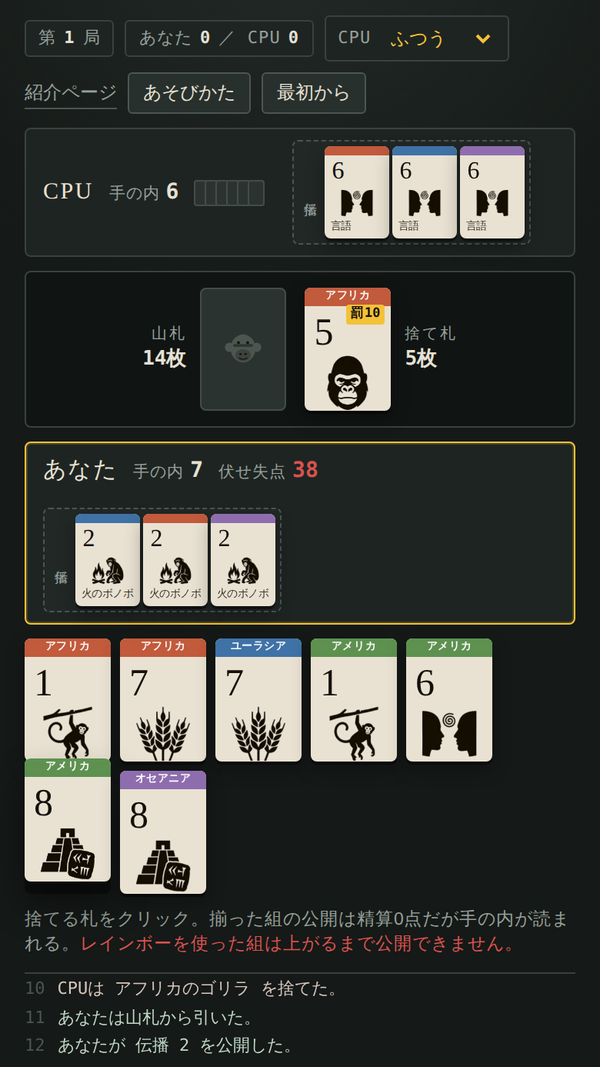
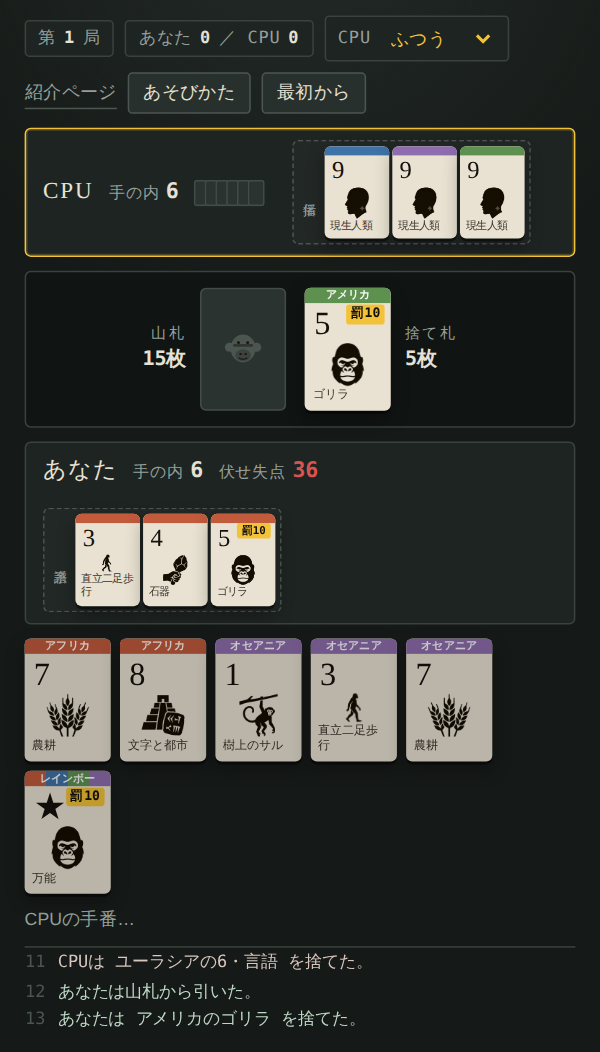
札の段名が切れる不具合を修正、万能の表記とツモの呼び名を変更
1) 段名が切れていた

絵の高さを 38px で固定していたため、狭い画面（札 56x80）では
帯12 + 数字30 + 絵38 = 80 となって段名の場所が残らず、
overflow:hidden で切り落とされていた。

絵を flex:1 1 auto / min-height:0 / max-height:38px にして
伸び縮みさせ、文字側の高さを必ず確保するようにした。
あわせて 560px 以下では帯と数字も少し詰めている。
390 / 320 / 1000px のいずれでも切れる札が0枚になることを確認。

2) レインボーゴリラの表記を「萬能」から「万能」へ

3) 「ツモ」をやめ、上がりの宣言はどちらも「ゴリラ！」に

麻雀の用語がこのゲームの世界に合わないため。
山札から引いたか捨て札を拾ったかは、ログの文で書き分ける。
ルール説明・RULES.md・README・紹介ページも合わせた。

ヒーローのスクリーンショットは段名が切れた状態で撮ったものだったので
撮り直した（600x1052）。tools/make_screen.mjs は撮影から切り出し・
縮小までを一度に行うようにして、外部の画像処理を要らなくした。

Claude-Session: https://claude.ai/code/session_01QAyU56SF3q2f55y4EJJ5n5

diff --git a/app/index.html b/app/index.html
@@ -97,8 +97,10 @@
     color:var(--ink); background:var(--banana); border-radius:2px; padding:0 3px}
   .card .apeart{position:absolute; right:4px; bottom:19px; opacity:.85}
   /* 絵札 — img/1.png … img/9.png を置くと自動で切り替わる */
-  .card .art{display:block; width:100%; height:38px; object-fit:contain; margin-top:1px;
-    mix-blend-mode:multiply; pointer-events:none}
+  /* 絵は伸び縮みさせる。高さを固定すると、狭い画面で段名の場所が残らず切れる。
+     min-height:0 で縮めるようにし、文字側は内容ぶんの高さを保つ。 */
+  .card .art{display:block; width:100%; flex:1 1 auto; min-height:0; max-height:38px;
+    object-fit:contain; margin-top:1px; mix-blend-mode:multiply; pointer-events:none}
   .card.arton .band{height:12px}
   /* 絵にすると大陸名の行が消えるので、色帯の中に入れて残す */
   .card.arton .cont{position:absolute; top:0; left:0; right:0; height:12px; line-height:12px;
@@ -107,7 +109,7 @@
   .card.sm.arton .cont{display:none}
   .card.arton .apeart{display:none}
   .card.arton .num{font-size:25px; padding-top:5px}
-  .card.sm .art{height:22px}
+  .card.sm .art{max-height:22px}
   .card.sm.arton .band{height:6px}
   .card.sm.arton .num{font-size:16px; padding-top:3px}
   .card.sm{width:42px;height:60px}
@@ -176,6 +178,8 @@
     .card .num{font-size:24px;padding:5px 0 0 6px}
     .card .stage{font-size:7.5px;padding:0 5px}
     .card .cont{font-size:7px;padding:0 6px}
+    .card.arton .band{height:10px}
+    .card.arton .num{font-size:21px; padding-top:3px}
     .deckback,.emptyslot{width:56px;height:80px}
     .tablerow{gap:12px}
     .recent{display:none}
@@ -504,7 +508,7 @@ function cardNode(card, opt){
 
   var st = document.createElement("div");
   st.className = "stage";
-  st.textContent = card.kind === "rainbow" ? "萬能" : STAGE[card.n];
+  st.textContent = card.kind === "rainbow" ? "万能" : STAGE[card.n];
   el.appendChild(st);
 
   if (isApe(card)){
@@ -640,8 +644,7 @@ function render(){
   } else {
     var w = winOption(G.you.hand, G.you.melds.length);
     if (w){
-      var lab = G.drawnFrom === "discard" ? "ゴリラ！" : "ツモ";
-      act.appendChild(mkBtn(lab, "win", function(){ declareWin("you", w); }));
+      act.appendChild(mkBtn("ゴリラ！", "win", function(){ declareWin("you", w); }));
     }
     var k = knockOption(G.you);
     if (k){
@@ -882,8 +885,9 @@ function declareWin(who, w){
   var gained = lp.dead + bonus;
   G.score[who] += gained;
 
-  var call = G.drawnFrom === "discard" ? "ゴリラ！" : "ツモ";
-  log(nameOf(who) + "が" + call + "で上がった。" + nameOf(loser) + "の伏せ札 " + lp.dead + "点" +
+  var call = "ゴリラ！";
+  var how = G.drawnFrom === "discard" ? "捨て札を拾って" : "山札から引いて";
+  log(nameOf(who) + "が" + how + call + " " + nameOf(loser) + "の伏せ札 " + lp.dead + "点" +
       (bonus ? "＋現生人類 " + bonus + "点" : "") + " を獲得。",
       who==="you" ? "hot" : "bad");
   render();
@@ -1058,7 +1062,7 @@ function showRules(){
     '<h3>手番</h3>' +
     '<p>山札か捨て札の一番上か、どちらかから1枚引いて、1枚捨てる。ポン・チーはありません。' +
     '<strong>捨て札を拾った手番は山札が減らない</strong>ので、拾うほど局が延びます。</p>' +
-    '<p>2人なので、自分の手番が来たときの捨て札は必ず相手が直前に捨てた札です。つまり<strong>それを拾って上がれば実質のロン</strong>——そのとき叫ぶのが「ゴリラ！」。山札から引いて上がれば「ツモ」。</p>' +
+    '<p>2人なので、自分の手番が来たときの捨て札は必ず相手が直前に捨てた札です。つまり<strong>それを拾って上がれば実質のロン</strong>。山札から引いても捨て札を拾っても、上がりの宣言は<strong>「ゴリラ！」</strong>です。</p>' +
 
     '<h3>公開</h3>' +
     '<p>揃った組は自分の手番に公開できます。<strong>公開した組は精算で0点</strong>、伏せたままだと札の点がそのまま失点になる。</p>' +

diff --git a/index.html b/index.html
@@ -82,7 +82,7 @@
 
     <div class="phone">
       <div class="screen screen-shot">
-        <img src="assets/screen.png" alt="対戦画面。CPUと自分がそれぞれ1組を公開し、捨て札にアフリカのゴリラが出ているところ。" width="600" height="1067">
+        <img src="assets/screen.png" alt="対戦画面。CPUと自分がそれぞれ1組を公開し、捨て札にアフリカのゴリラが出ているところ。" width="600" height="1052">
       </div>
     </div>
   </div>
@@ -222,7 +222,7 @@
         <span class="num">02</span>
         <h3>「ゴリラ！」は、実質のロン</h3>
         <p>2人なので、自分の手番に置かれている捨て札は必ず相手が直前に捨てた札です。
-          つまり<b>それを拾って上がれば実質のロン</b>。山札から引いて上がれば「ツモ」です。</p>
+          つまり<b>それを拾って上がれば実質のロン</b>。山札から引いても拾っても、宣言は「ゴリラ！」です。</p>
       </div>
       <div class="card">
         <span class="num">03</span>

diff --git a/assets/site.css b/assets/site.css
@@ -244,7 +244,7 @@ details p { margin-top: 12px; font-size: 15px; padding-left: 24px; }
    iOS Safari が 本来の 高さの まま 置いて しまい、縦横比が 崩れる。
    念のため aspect-ratio でも 比率を 固定して おく。 */
 .screen-shot { display: block; padding: 0; min-height: 0; background: #151917; }
-.screen-shot img { display: block; width: 100%; height: auto; aspect-ratio: 600 / 1067; }
+.screen-shot img { display: block; width: 100%; height: auto; aspect-ratio: 600 / 1052; }
 
 /* ---- このサイトの 題は 長い（15字）ので、狭い画面での ヘッダー ----
    そのままだと 題が 2行に なり、「あそぶ」の ボタンが 潰れて 縦書きに なる。 */

diff --git a/RULES.md b/RULES.md
@@ -88,8 +88,8 @@
 
 宣言の名前は引いた場所で変わる（演出上の区別のみで、点数は同じ）。
 
-- 山札から引いて上がった → **ツモ**
-- 捨て札から拾って上がった → **ゴリラ！**（実質のロン）
+山札から引いても捨て札から拾っても、宣言は **「ゴリラ！」**。
+捨て札から拾って上がった場合が、実質のロンにあたる。
 
 3組目を公開した場合も、その時点で上がりになる（手の内には捨てる1枚しか残っていない）。
 

diff --git a/README.md b/README.md
@@ -69,7 +69,7 @@
 
 - **捨て札を拾った手番は山札が減らない** → 拾うほど局が延びる
 - 2人なので、自分の手番の捨て札は必ず相手が直前に捨てた札。
-  **それを拾って上がれば実質のロン** ＝「ゴリラ！」。山札からなら「ツモ」
+  **それを拾って上がれば実質のロン**。どちらの上がりも宣言は「ゴリラ！」
 - 山札が尽きたら強制精算（拾い合いで無限に回るのを防ぐ）
 
 ## 公開（副露）
